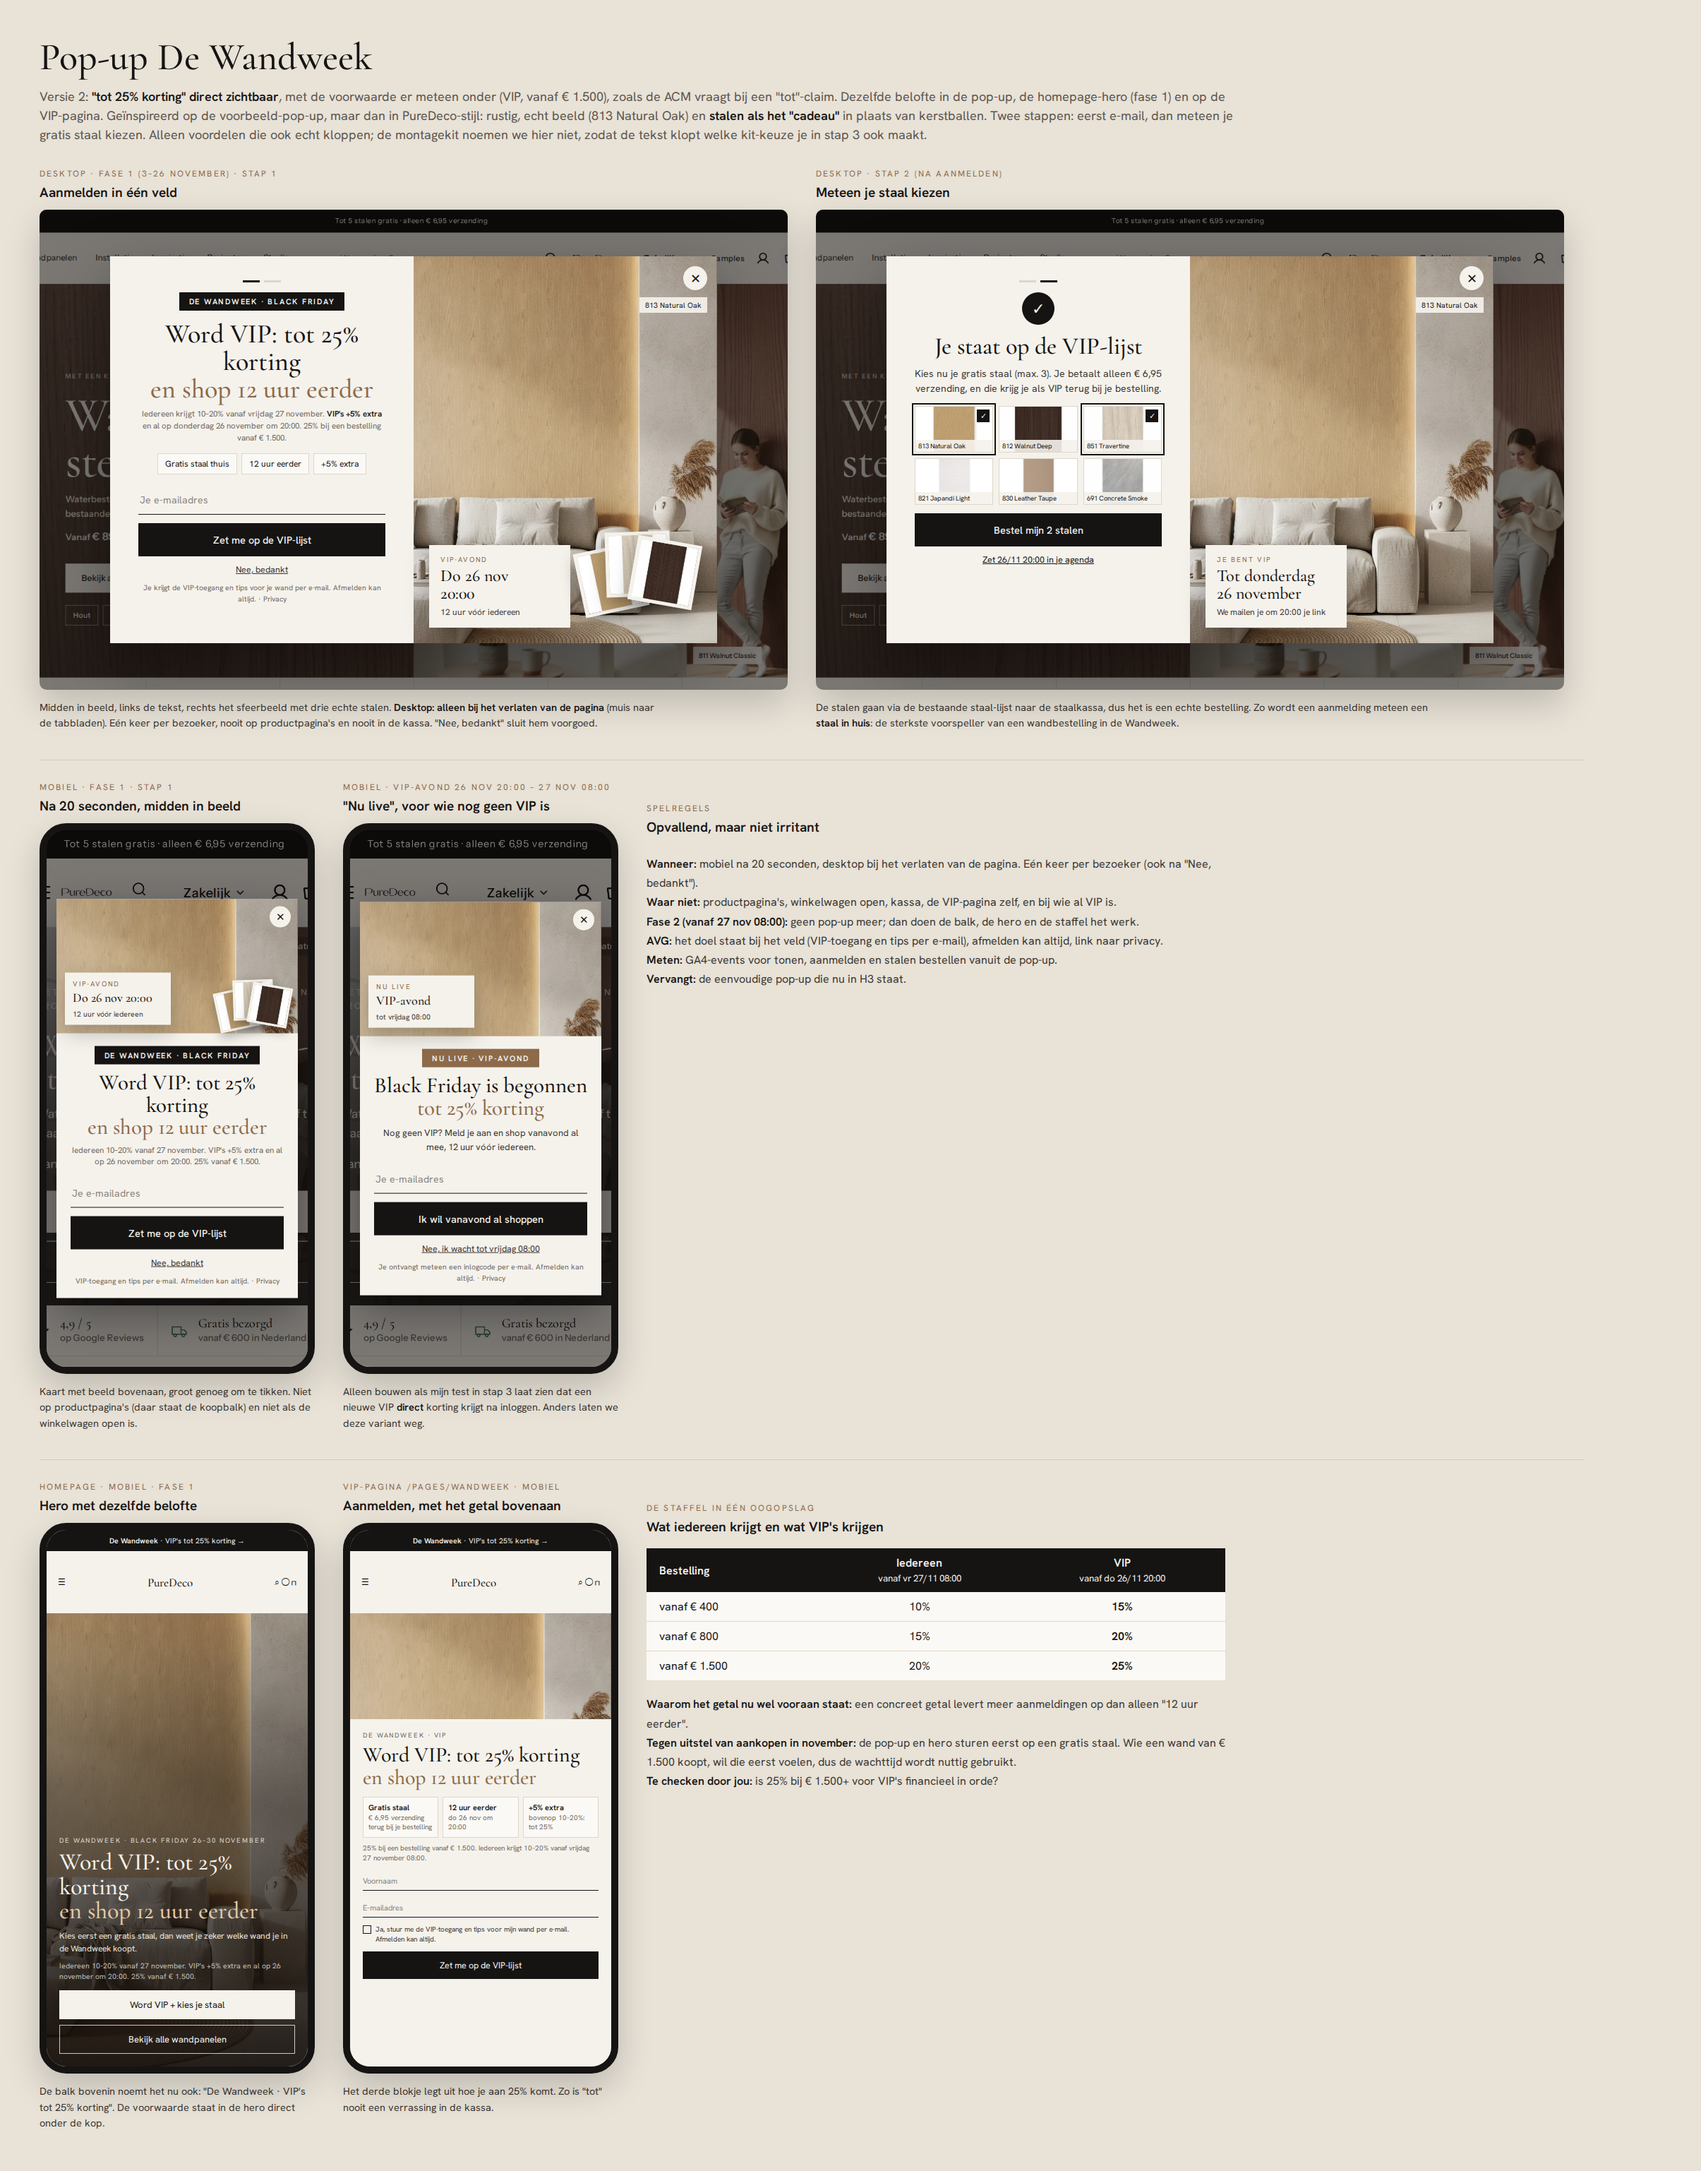
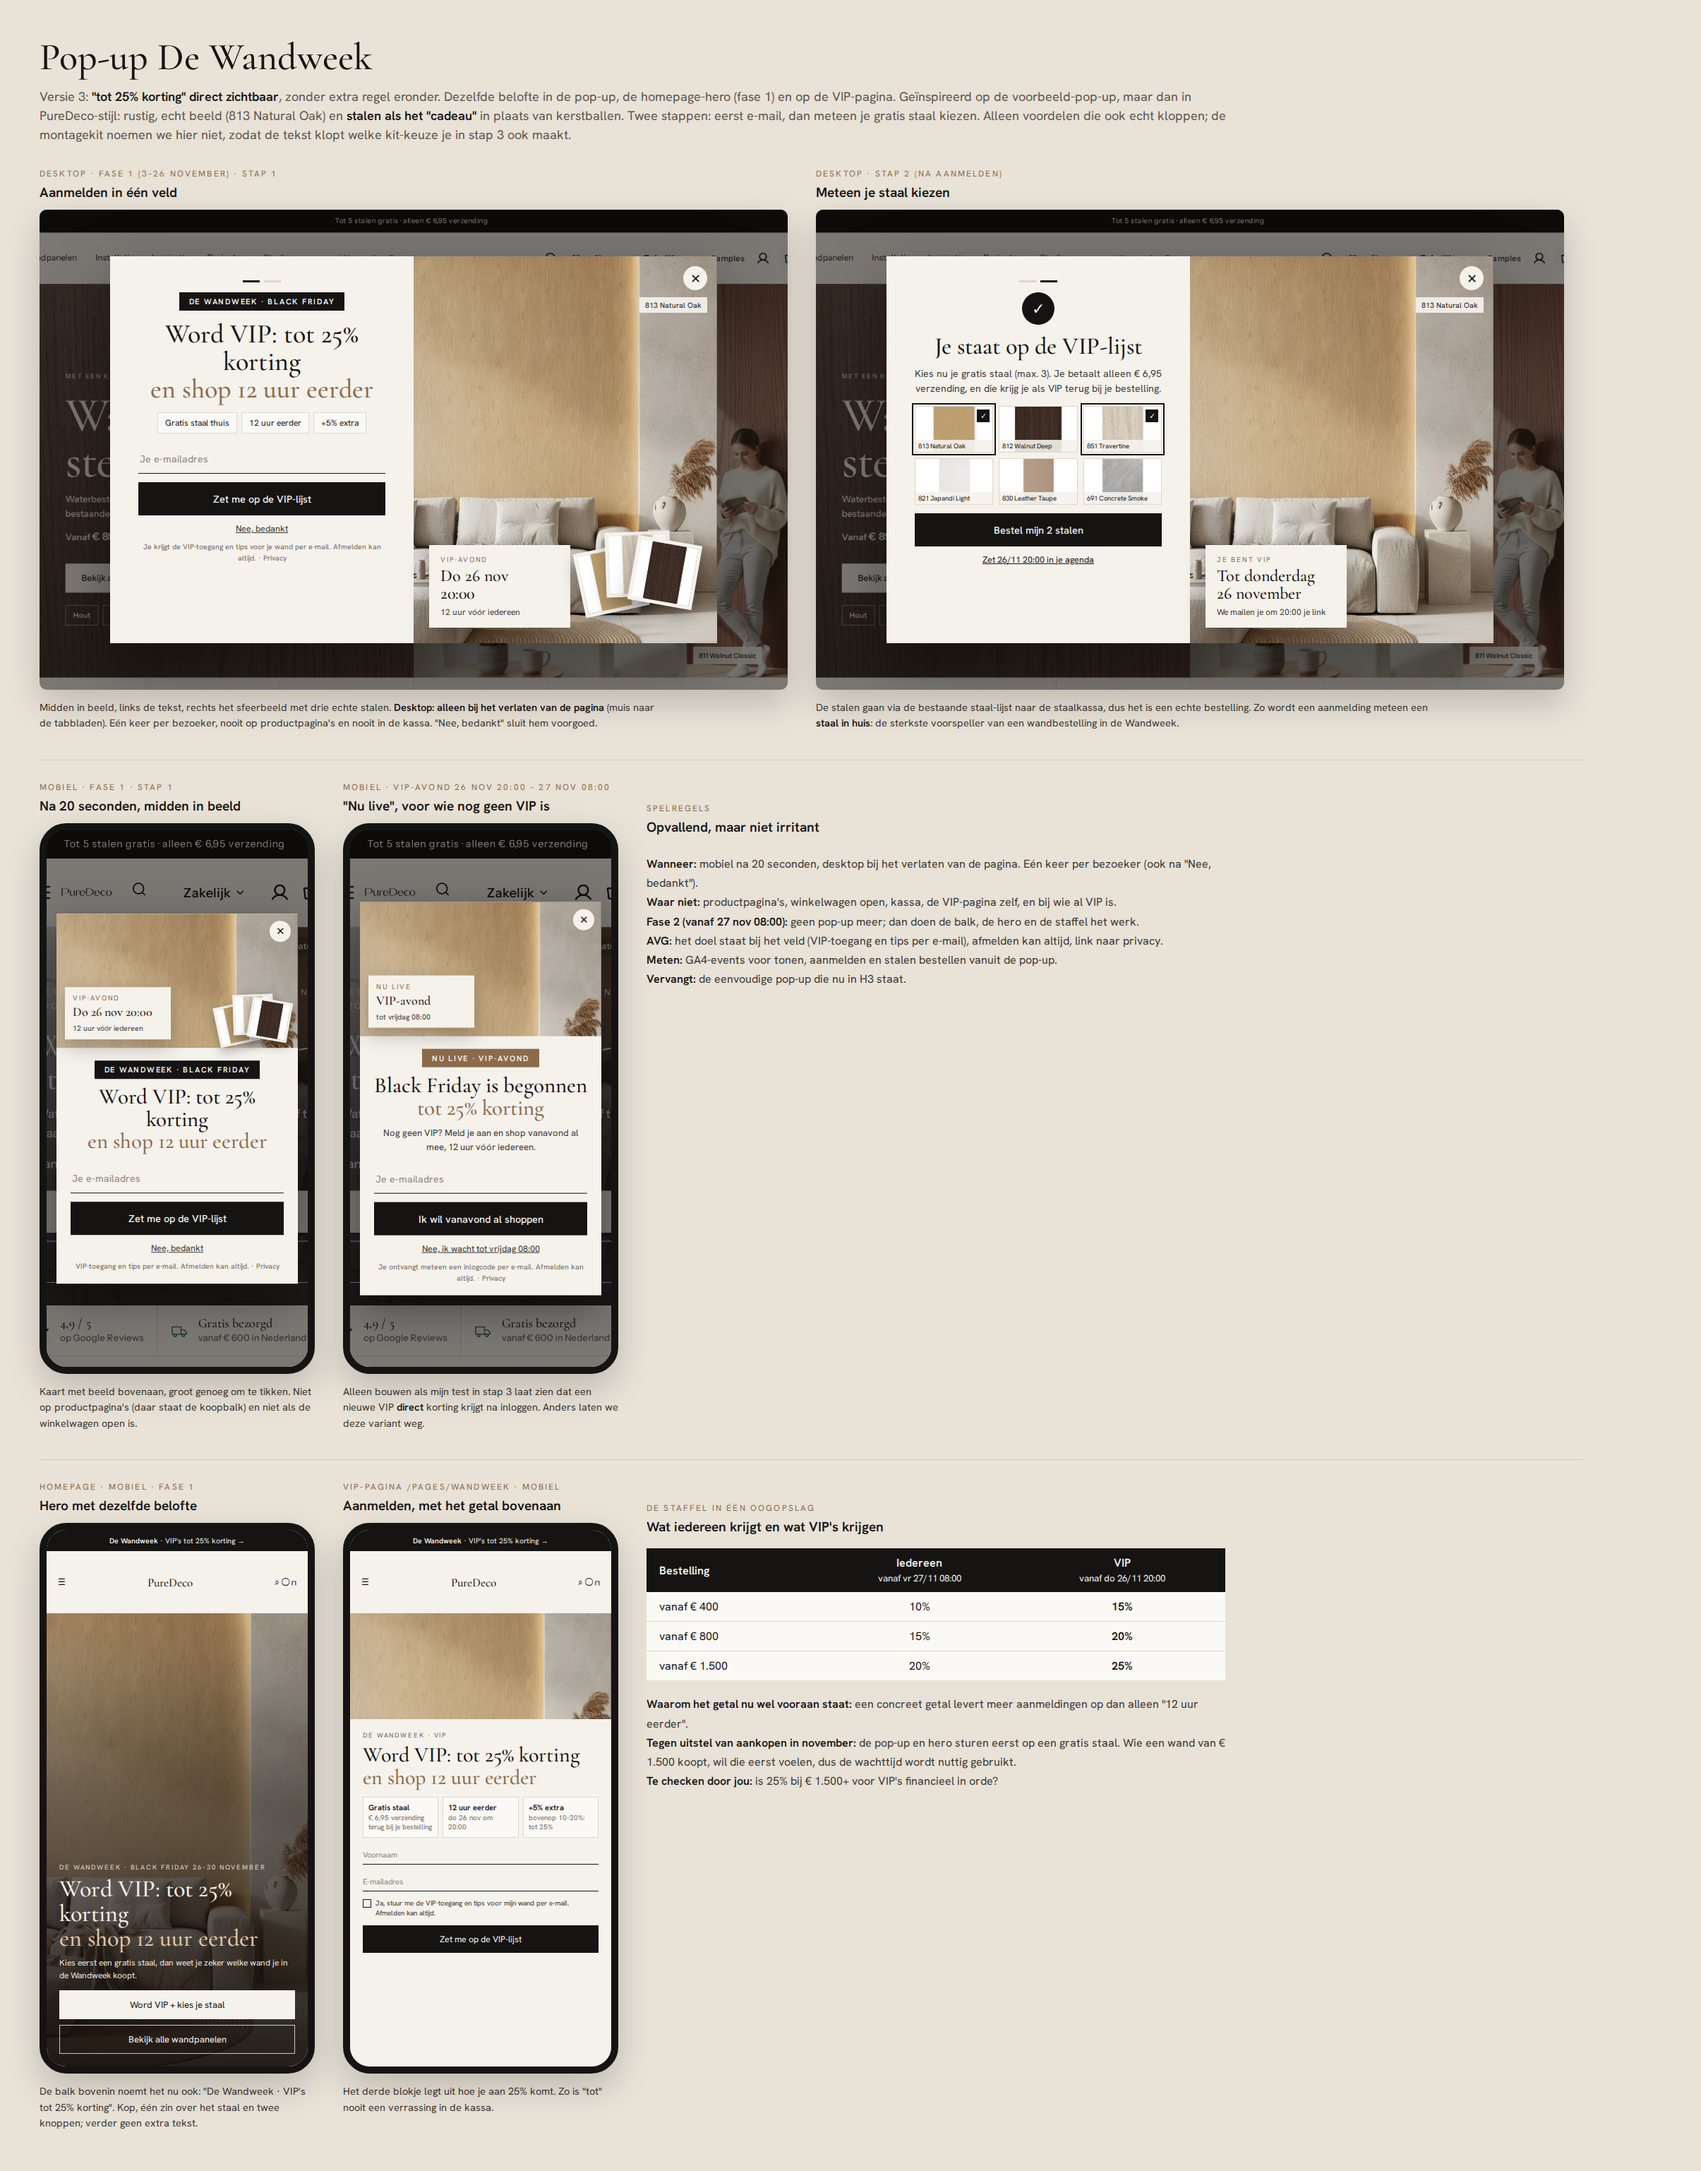
Artboard pop-up v3: voorwaardenregel onder de kop weg
Claude-Session: https://claude.ai/code/session_01Tr9HDAqx5rbsuHBhnEqEEG

diff --git a/docs/ontwerp-puredeco-finish/black-friday/popup-artboard.html b/docs/ontwerp-puredeco-finish/black-friday/popup-artboard.html
@@ -96,7 +96,7 @@ h1{font-family:'Cormorant Garamond',serif;font-weight:500;font-size:54px}
 hr{border:0;border-top:1px solid #d4ccbf;margin:40px 0 30px}
 </style></head><body>
 <h1>Pop-up De Wandweek</h1>
-<p class="lead">Versie 2: <b>"tot 25% korting" direct zichtbaar</b>, met de voorwaarde er meteen onder (VIP, vanaf € 1.500), zoals de ACM vraagt bij een "tot"-claim. Dezelfde belofte in de pop-up, de homepage-hero (fase 1) en op de VIP-pagina. Geïnspireerd op de voorbeeld-pop-up, maar dan in PureDeco-stijl: rustig, echt beeld (813 Natural Oak) en <b>stalen als het "cadeau"</b> in plaats van kerstballen. Twee stappen: eerst e-mail, dan meteen je gratis staal kiezen. Alleen voordelen die ook echt kloppen; de montagekit noemen we hier niet, zodat de tekst klopt welke kit-keuze je in stap 3 ook maakt.</p>
+<p class="lead">Versie 3: <b>"tot 25% korting" direct zichtbaar</b>, zonder extra regel eronder. Dezelfde belofte in de pop-up, de homepage-hero (fase 1) en op de VIP-pagina. Geïnspireerd op de voorbeeld-pop-up, maar dan in PureDeco-stijl: rustig, echt beeld (813 Natural Oak) en <b>stalen als het "cadeau"</b> in plaats van kerstballen. Twee stappen: eerst e-mail, dan meteen je gratis staal kiezen. Alleen voordelen die ook echt kloppen; de montagekit noemen we hier niet, zodat de tekst klopt welke kit-keuze je in stap 3 ook maakt.</p>
 
 <div class="row">
   <div class="col">
@@ -106,7 +106,6 @@ hr{border:0;border-top:1px solid #d4ccbf;margin:40px 0 30px}
         <div class="dots"><i class="on"></i><i></i></div>
         <span class="badge">DE WANDWEEK · BLACK FRIDAY</span>
         <p class="h">Word VIP: tot 25% korting<em>en shop 12 uur eerder</em></p>
-        <p class="cond">Iedereen krijgt 10–20% vanaf vrijdag 27 november. <b>VIP's +5% extra</b> en al op donderdag 26 november om 20:00. 25% bij een bestelling vanaf € 1.500.</p>
         <div class="chips"><span>Gratis staal thuis</span><span>12 uur eerder</span><span>+5% extra</span></div>
         <div class="inp">Je e-mailadres</div>
         <div class="btn">Zet me op de VIP-lijst</div>
@@ -161,7 +160,6 @@ hr{border:0;border-top:1px solid #d4ccbf;margin:40px 0 30px}
       <div class="mm-in">
         <span class="badge">DE WANDWEEK · BLACK FRIDAY</span>
         <p class="h">Word VIP: tot 25% korting<em>en shop 12 uur eerder</em></p>
-        <p class="cond">Iedereen 10–20% vanaf 27 november. VIP's +5% extra en al op 26 november om 20:00. 25% vanaf € 1.500.</p>
         <div class="inp">Je e-mailadres</div>
         <div class="btn">Zet me op de VIP-lijst</div>
         <div class="no">Nee, bedankt</div>
@@ -214,12 +212,11 @@ hr{border:0;border-top:1px solid #d4ccbf;margin:40px 0 30px}
         <p class="k">De Wandweek · Black Friday 26–30 november</p>
         <p class="hh">Word VIP: tot 25% korting<em>en shop 12 uur eerder</em></p>
         <p class="s">Kies eerst een gratis staal, dan weet je zeker welke wand je in de Wandweek koopt.</p>
-        <p class="c">Iedereen 10–20% vanaf 27 november. VIP's +5% extra en al op 26 november om 20:00. 25% vanaf € 1.500.</p>
         <div class="b1">Word VIP + kies je staal</div>
         <div class="b2">Bekijk alle wandpanelen</div>
       </div></div>
     </div></div>
-    <p class="note" style="max-width:390px">De balk bovenin noemt het nu ook: "De Wandweek · VIP's tot 25% korting". De voorwaarde staat in de hero direct onder de kop.</p>
+    <p class="note" style="max-width:390px">De balk bovenin noemt het nu ook: "De Wandweek · VIP's tot 25% korting". Kop, één zin over het staal en twee knoppen; verder geen extra tekst.</p>
   </div>
 
   <div class="col">
@@ -231,7 +228,6 @@ hr{border:0;border-top:1px solid #d4ccbf;margin:40px 0 30px}
         <p class="k">De Wandweek · VIP</p>
         <p class="hh">Word VIP: tot 25% korting<em>en shop 12 uur eerder</em></p>
         <div class="perks"><div><b>Gratis staal</b>€ 6,95 verzending terug bij je bestelling</div><div><b>12 uur eerder</b>do 26 nov om 20:00</div><div><b>+5% extra</b>bovenop 10–20%: tot 25%</div></div>
-        <p class="cond" style="font-size:10px">25% bij een bestelling vanaf € 1.500. Iedereen krijgt 10–20% vanaf vrijdag 27 november 08:00.</p>
         <div class="f">Voornaam</div><div class="f">E-mailadres</div>
         <div class="chk"><i></i><span>Ja, stuur me de VIP-toegang en tips voor mijn wand per e-mail. Afmelden kan altijd.</span></div>
         <div class="go">Zet me op de VIP-lijst</div>
